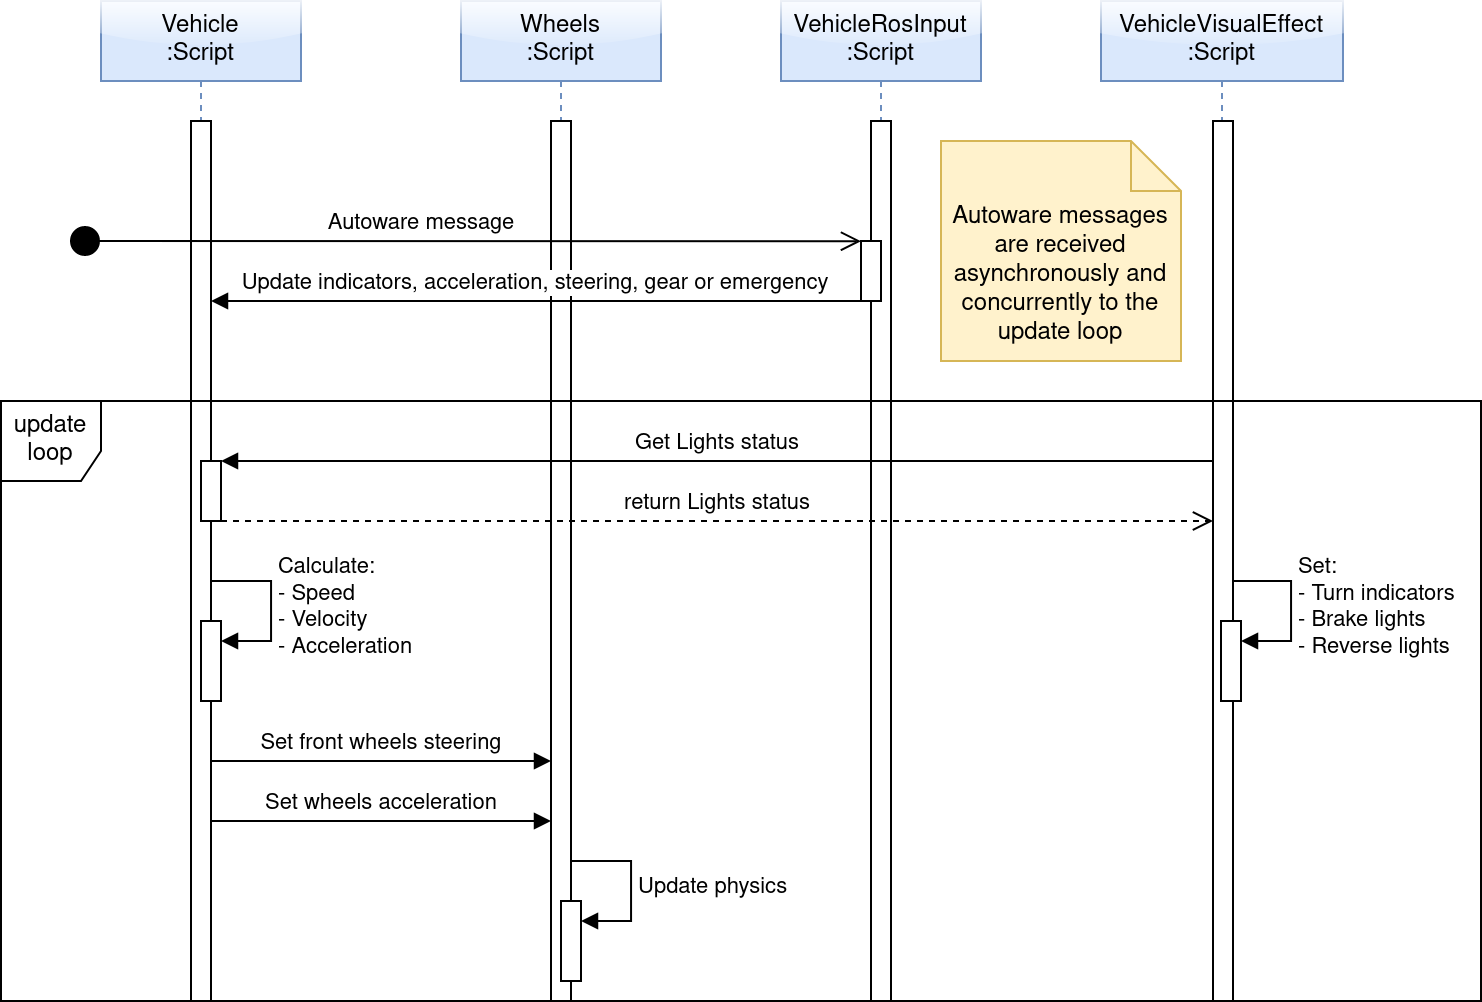
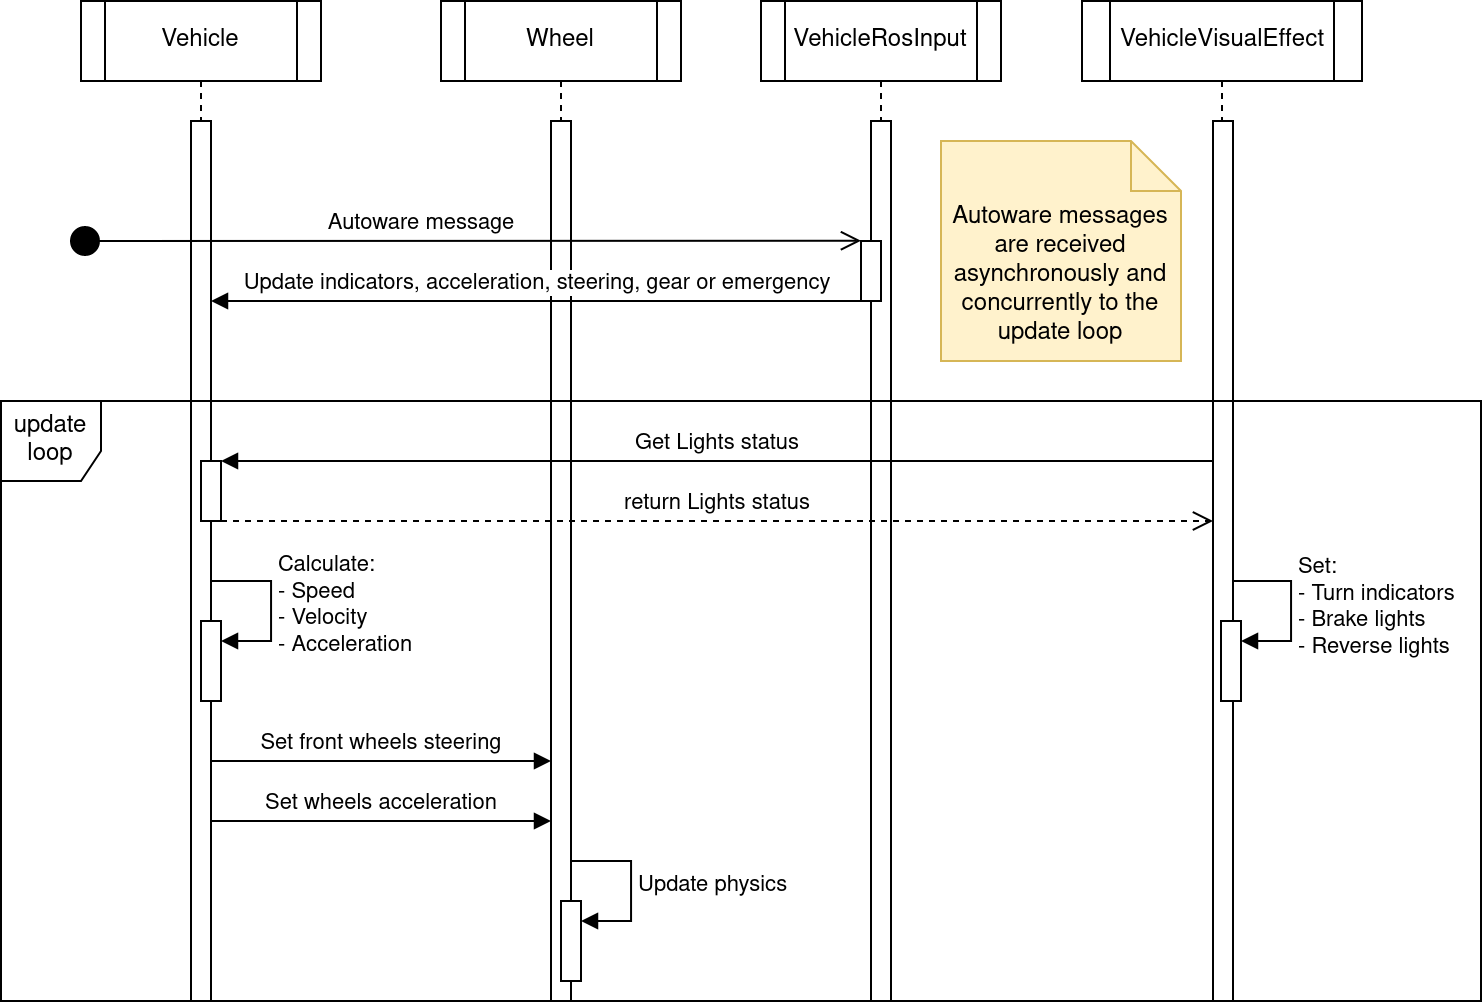
Improve 'Ego Vehicle' sequence diagram

diff --git a/docs/UserGuide/ProjectGuide/Components/EgoVehicle/index.md b/docs/UserGuide/ProjectGuide/Components/EgoVehicle/index.md
@@ -140,8 +140,8 @@ Some tasks performed by the elements are presented for clarification.
 ![ego vehicle sequence diagram](ego_vehicle_sequence.png)
 
 !!! info "Sequence diagram loops"
-    Please keep in mind, that [Ros topic](https://docs.ros.org/en/humble/Concepts/Basic/About-Topics.html#publish-subscribe) subscription callbacks and the update loop present on the diagram are executed independently and concurrently.
-    The connection point between these loops are shared resources - the *Vehicle* Script.
+    Please keep in mind, that *Autoware* message callbacks and the update loop present on the diagram are executed independently and concurrently.
+    One thing they have in common are resources - the *Vehicle* Script.
 
 ## CoM
 `CoM` (*Center of Mass*) is an additional link that is defined to set the center of mass in the `Rigidbody`.
